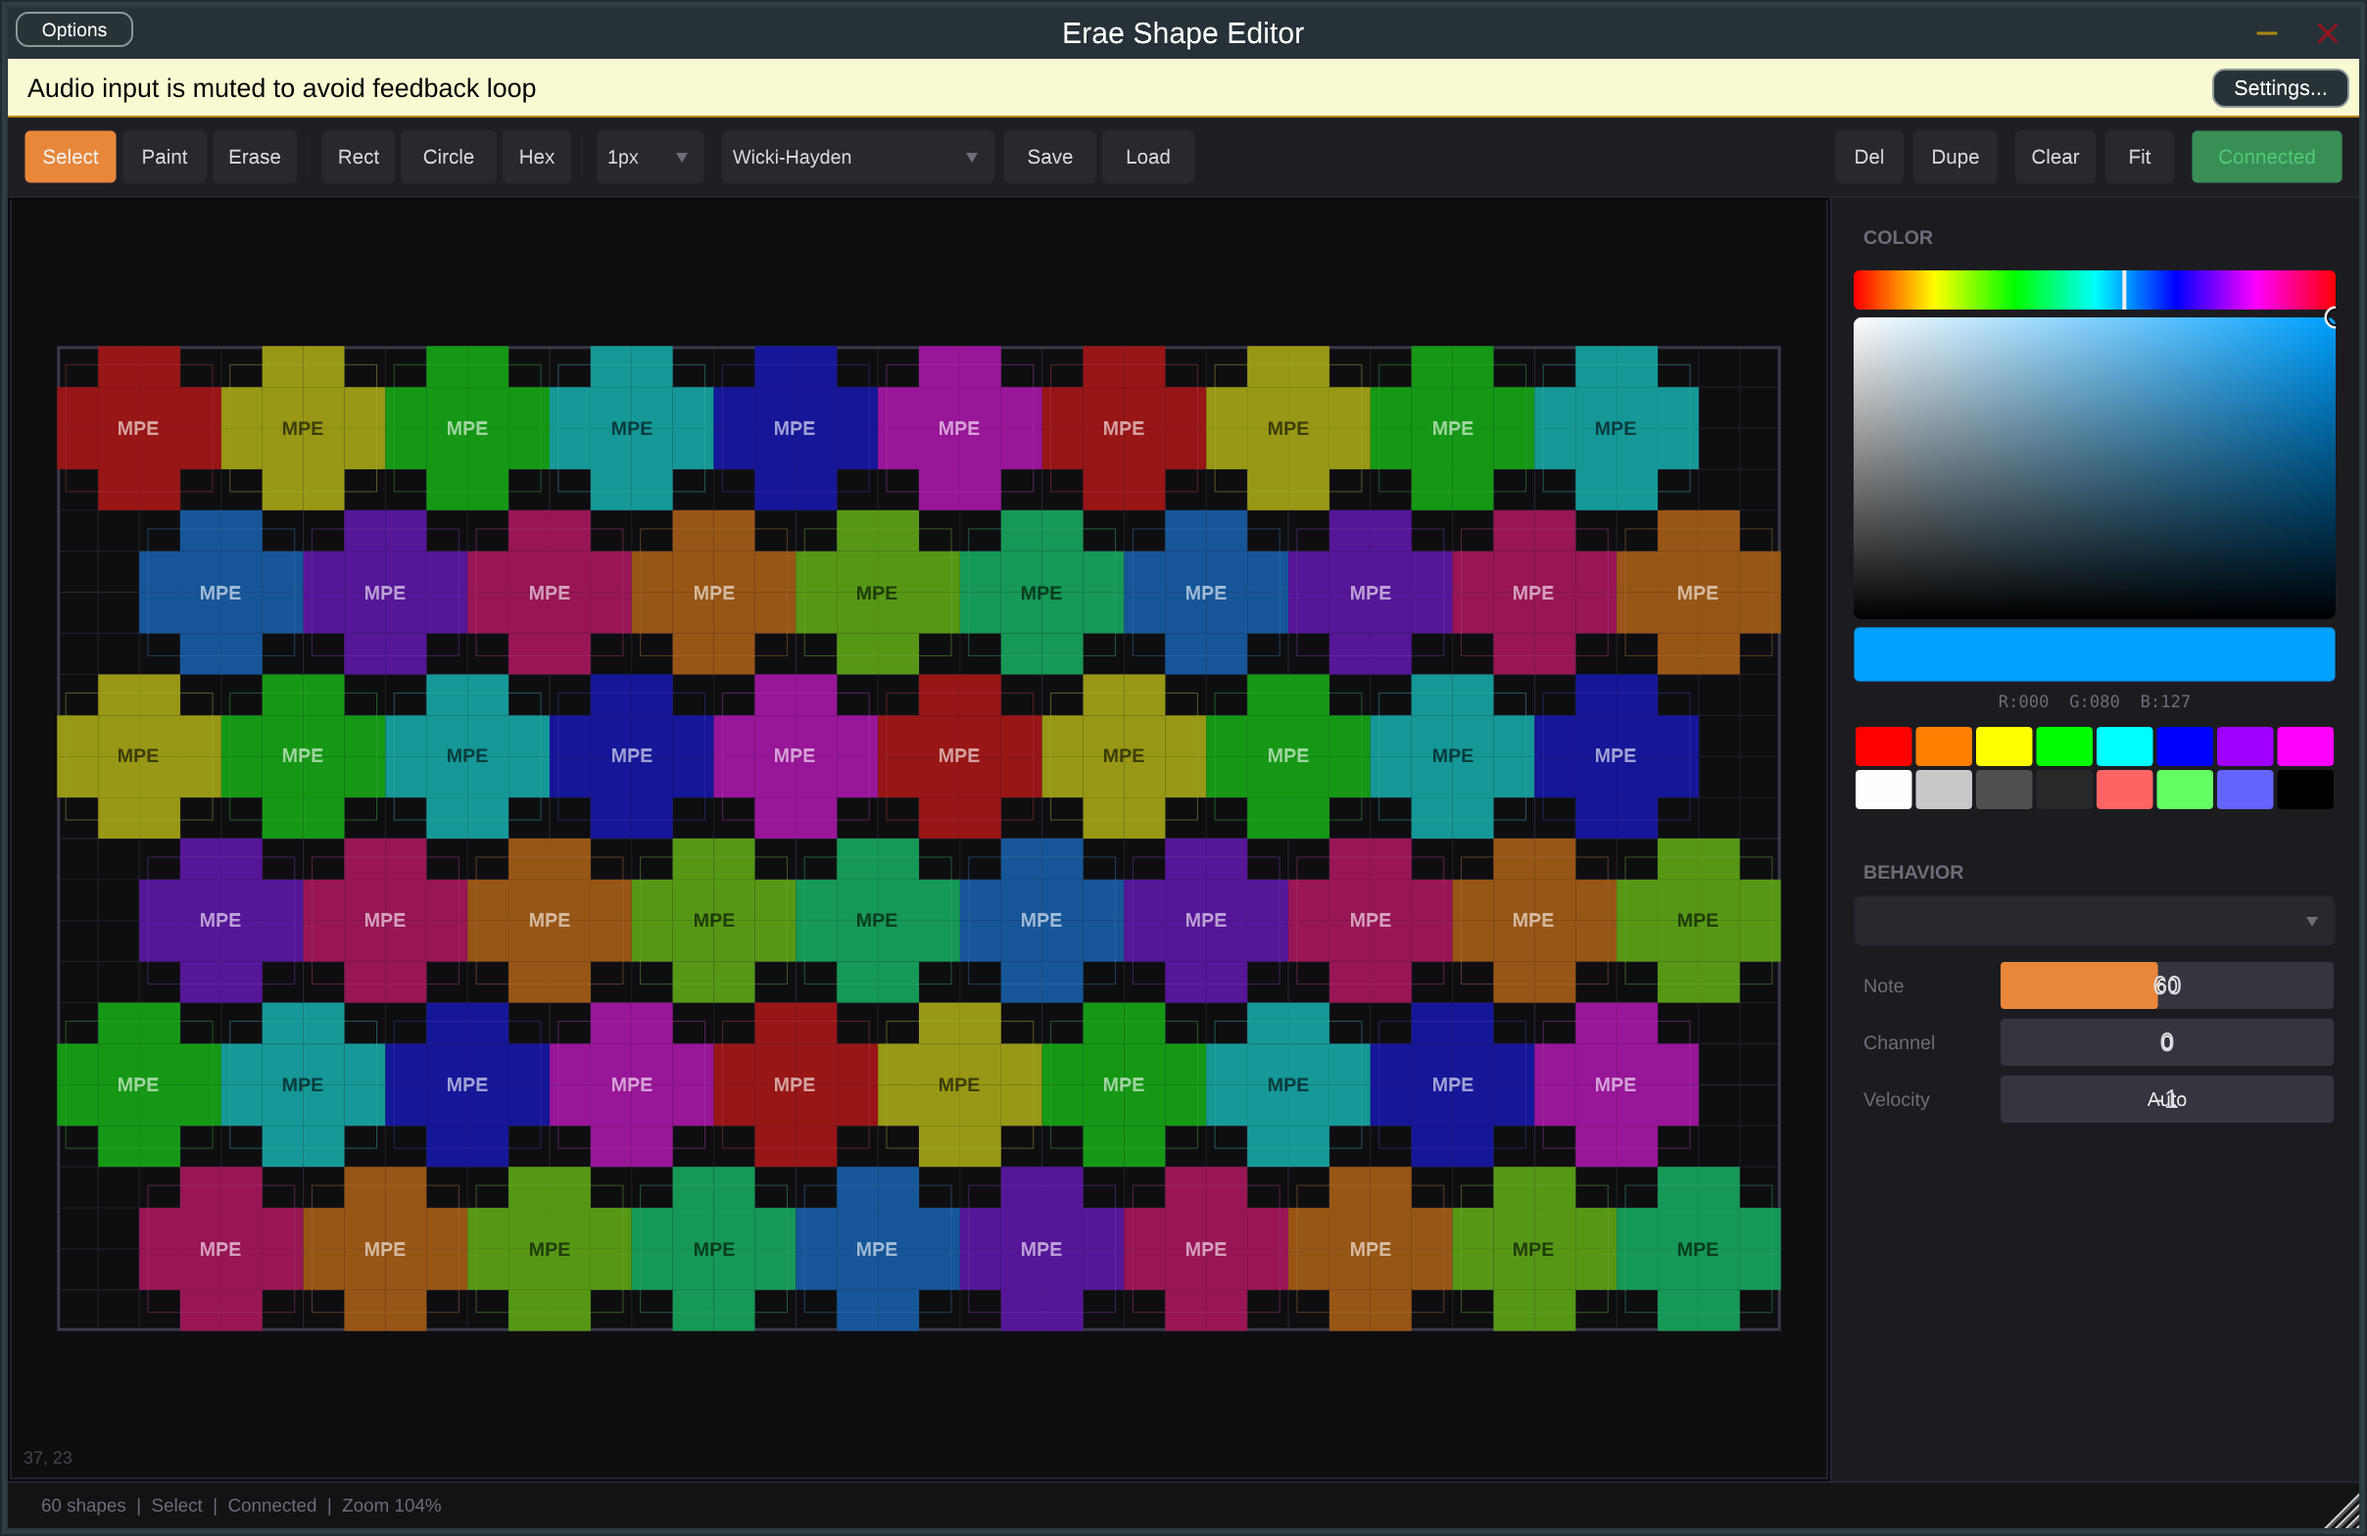
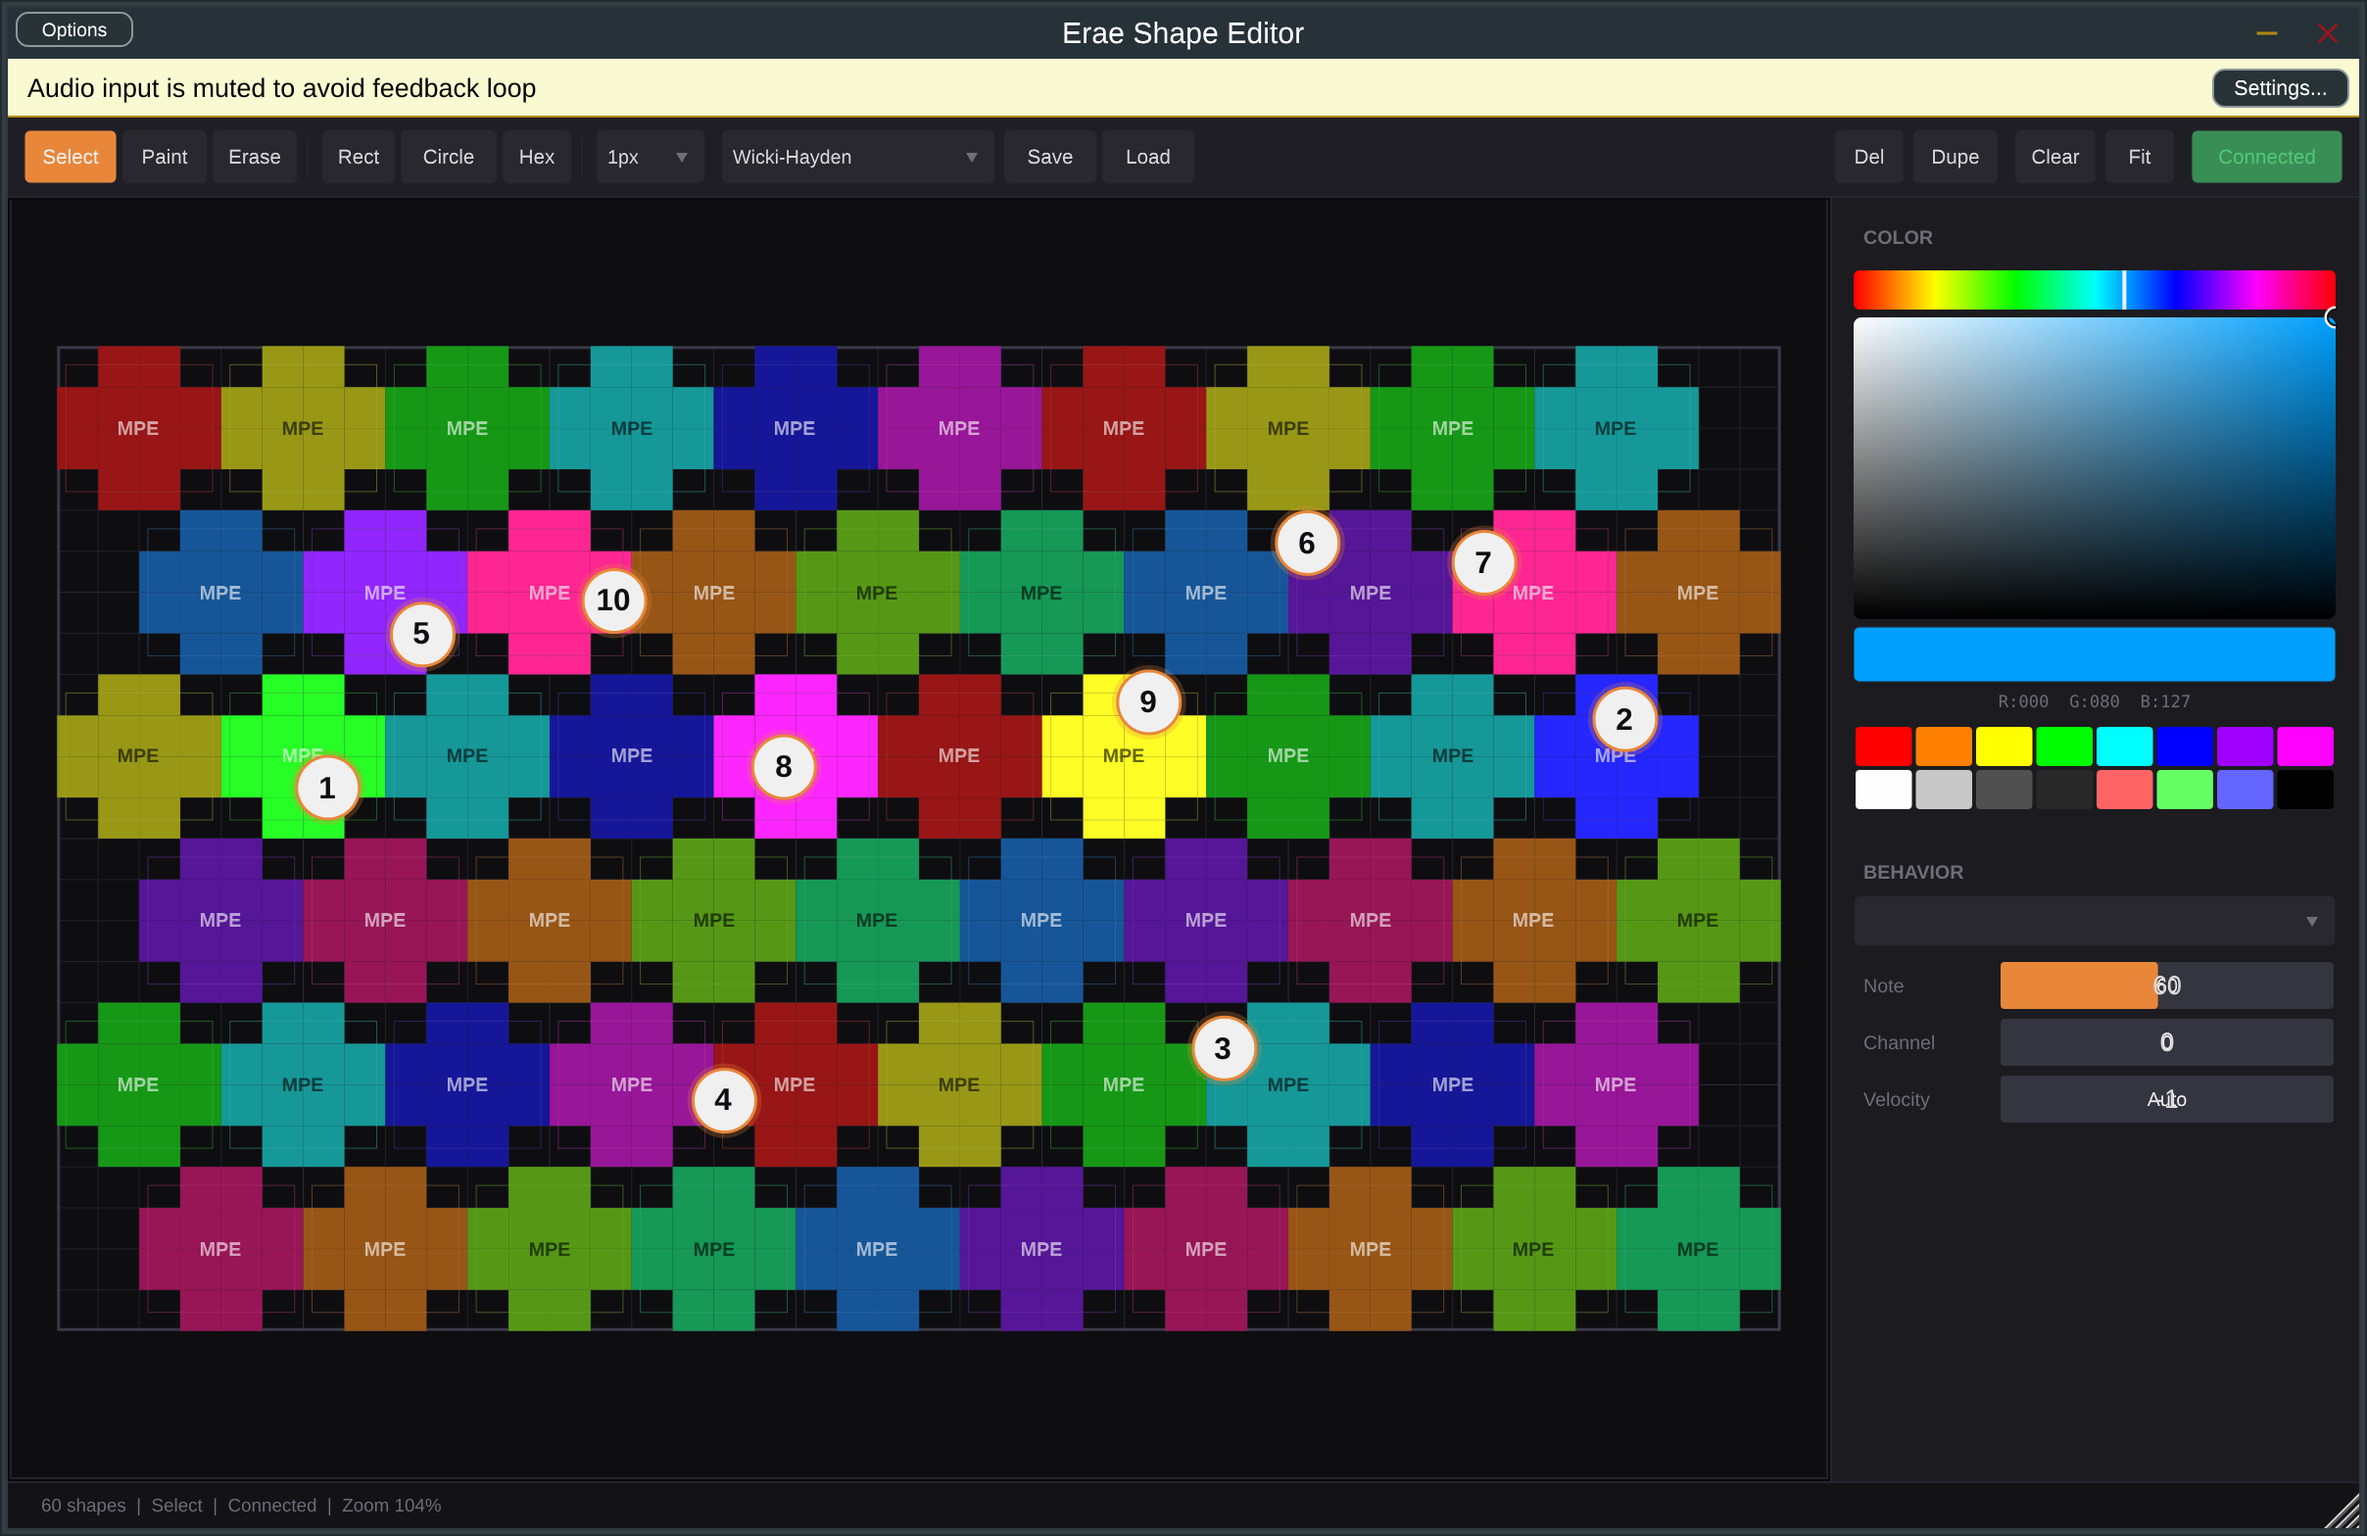
Add MIT license, updated screenshot with multitouch, WIP notice

diff --git a/README.md b/README.md
@@ -1,8 +1,10 @@
 # Erae 2 API Interface
 
+> **Work in Progress** - This project is under active development. Features may change and contributions are welcome.
+
 A JUCE-based visual layout editor and MIDI controller for the **Erae Touch II** playing surface. Design custom touch layouts with shapes, colors, and behaviors, then send them directly to the Erae hardware over USB.
 
-![Erae Shape Editor](docs/screenshot.png)
+![Erae Shape Editor - 10-finger multitouch with pressure glow](docs/screenshot.png)
 
 ## What It Does
 
